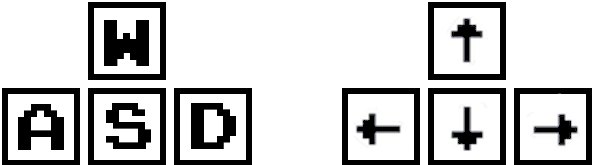
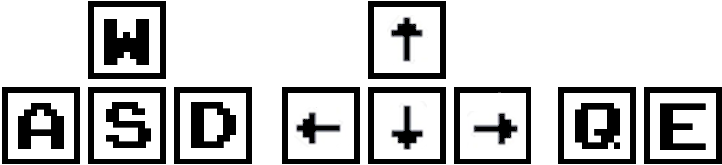
added element changing instructions

diff --git a/lib/bundle.js b/lib/bundle.js
@@ -579,7 +579,7 @@ var drawInstructions = exports.drawInstructions = function drawInstructions(cont
 
   context.drawImage(instructionPng, 90 / 1440 * canvas.width, 330 / 810 * canvas.height, 150 / 1440 * canvas.width, 230 / 810 * canvas.height);
 
-  context.drawImage(movementPng, 55 / 1440 * canvas.width, 215 / 810 * canvas.height, 220 / 1440 * canvas.width, 65 / 810 * canvas.height);
+  context.drawImage(movementPng, 15 / 1440 * canvas.width, 215 / 810 * canvas.height, 220 / 1440 * canvas.width, 65 / 810 * canvas.height);
 
   context.beginPath();
   context.font = fontSize + 'px arcade';

diff --git a/lib/util.js b/lib/util.js
@@ -282,7 +282,7 @@ export const drawInstructions = (context, canvas, instructionPng, movementPng) =
 
   context.drawImage(
     movementPng,
-    ((55/1440) * canvas.width),
+    ((15/1440) * canvas.width),
     ((215/810) * canvas.height),
     ((220/1440) * canvas.width),
     ((65/810) * canvas.height)
